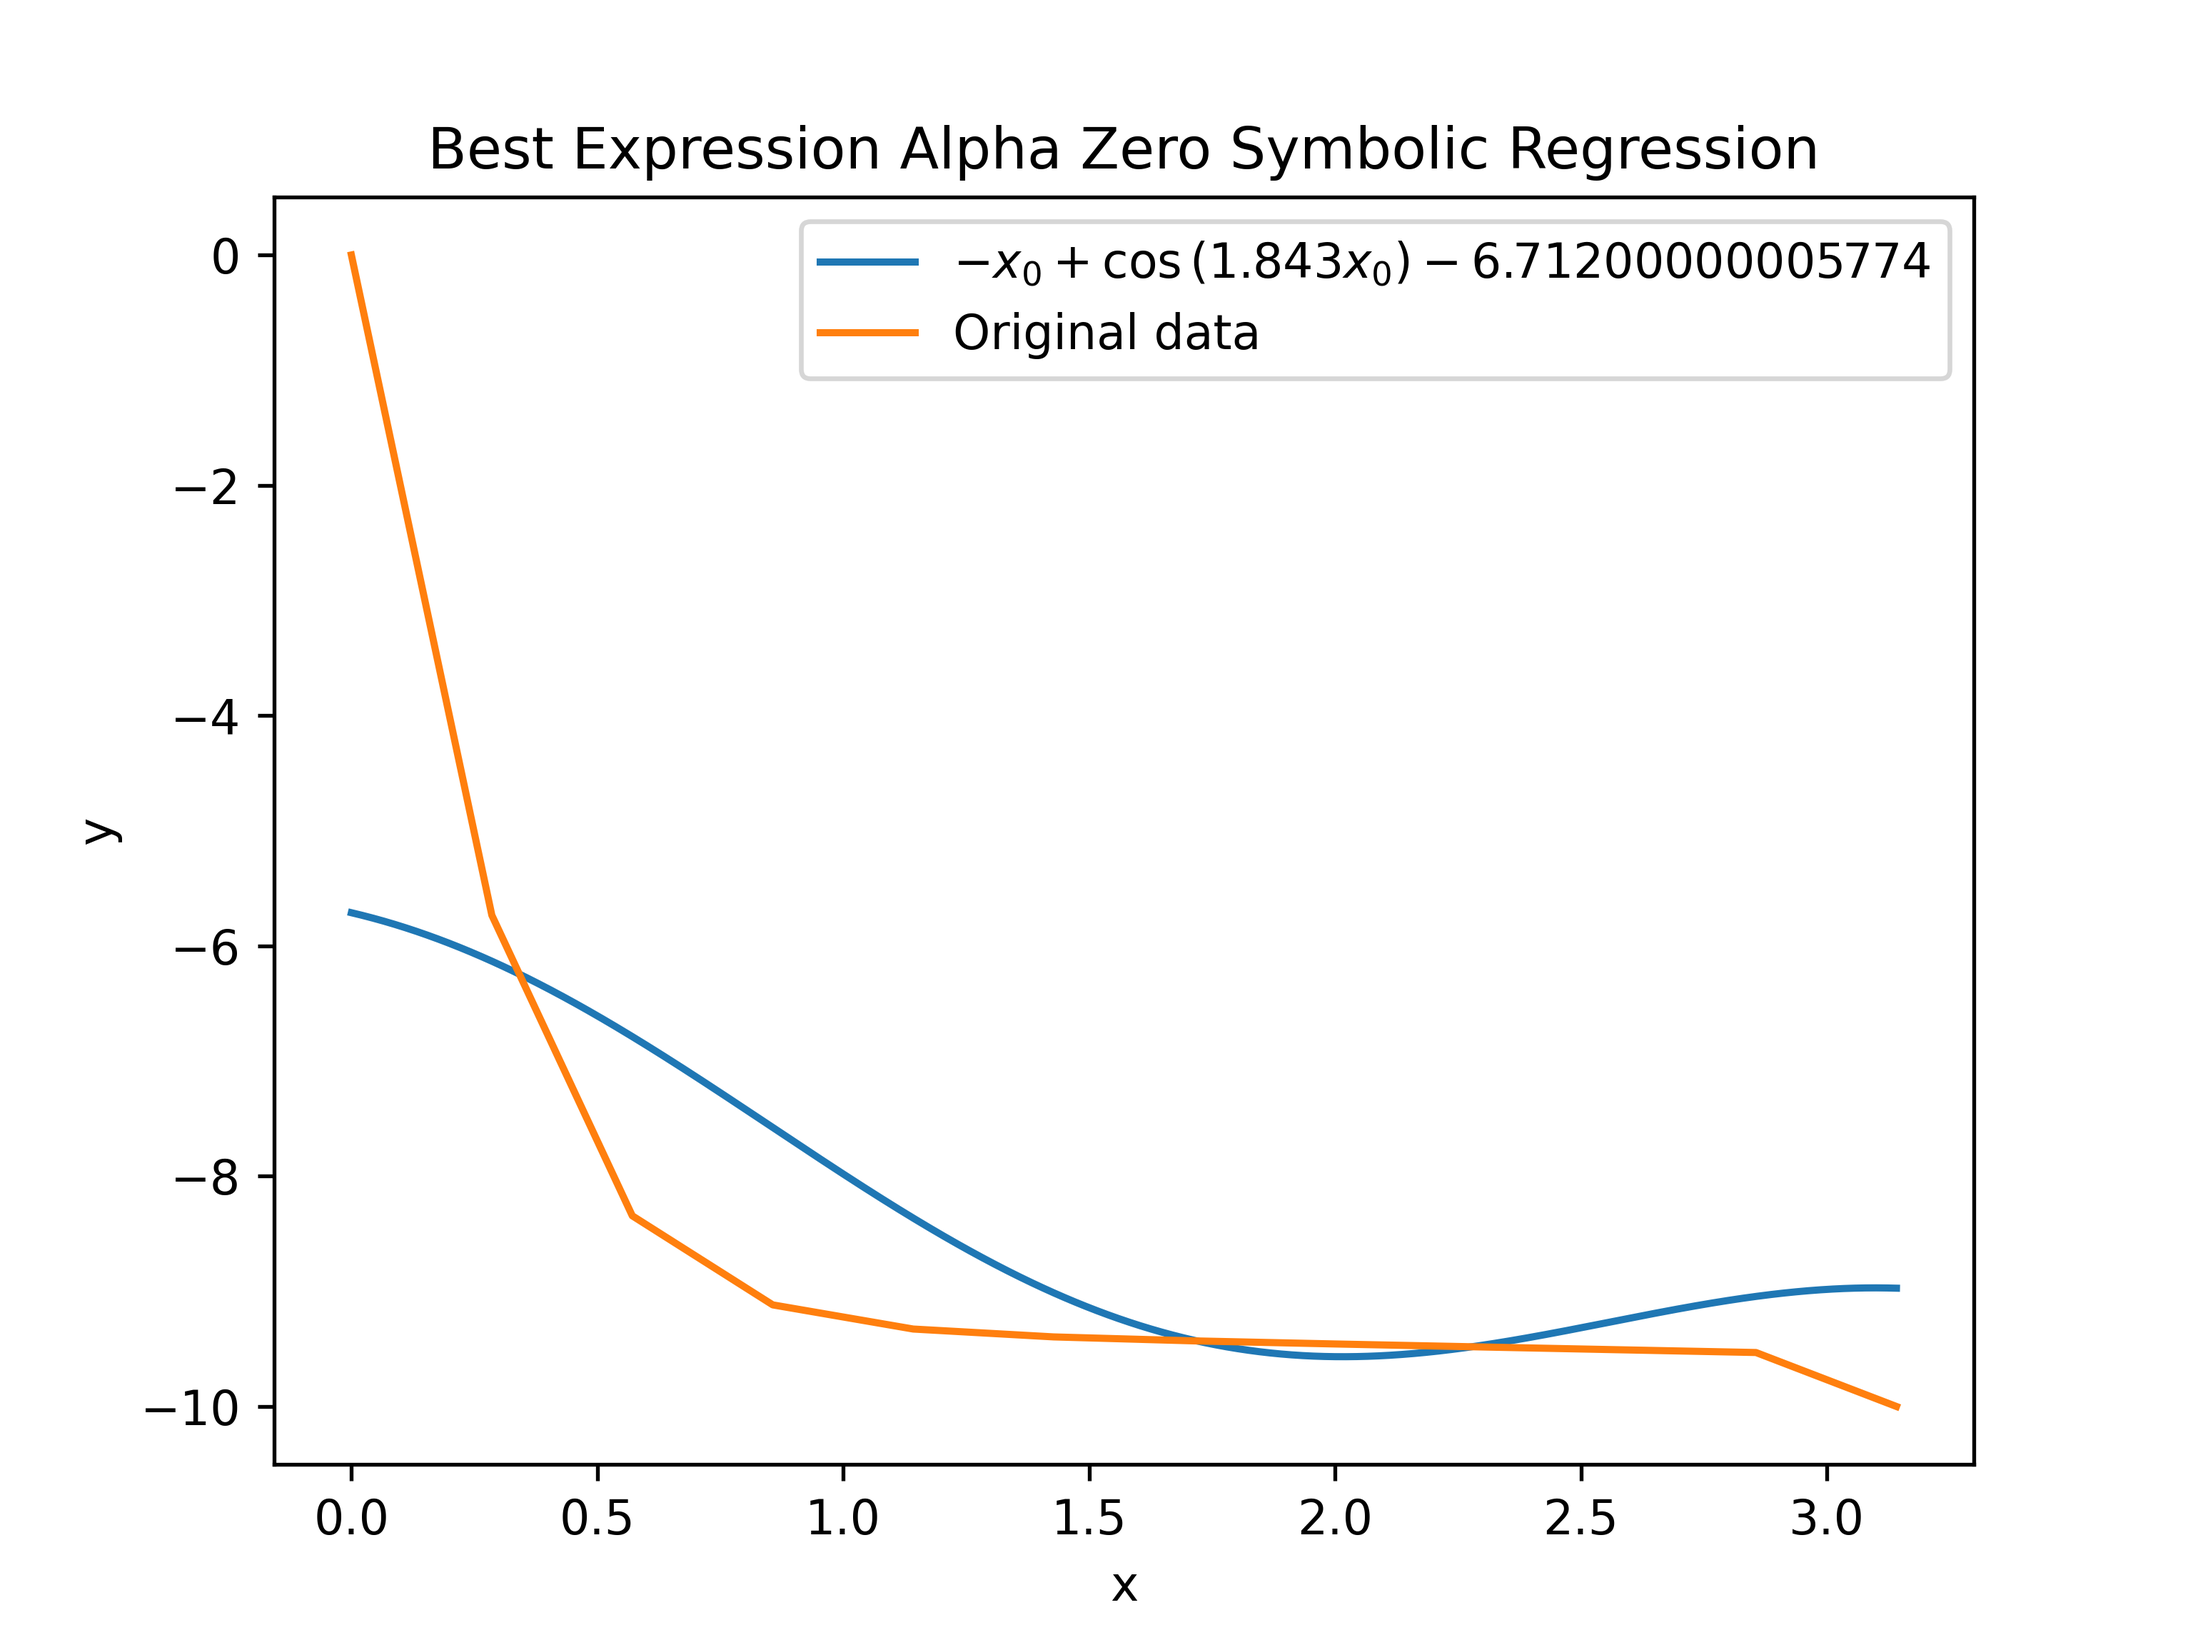
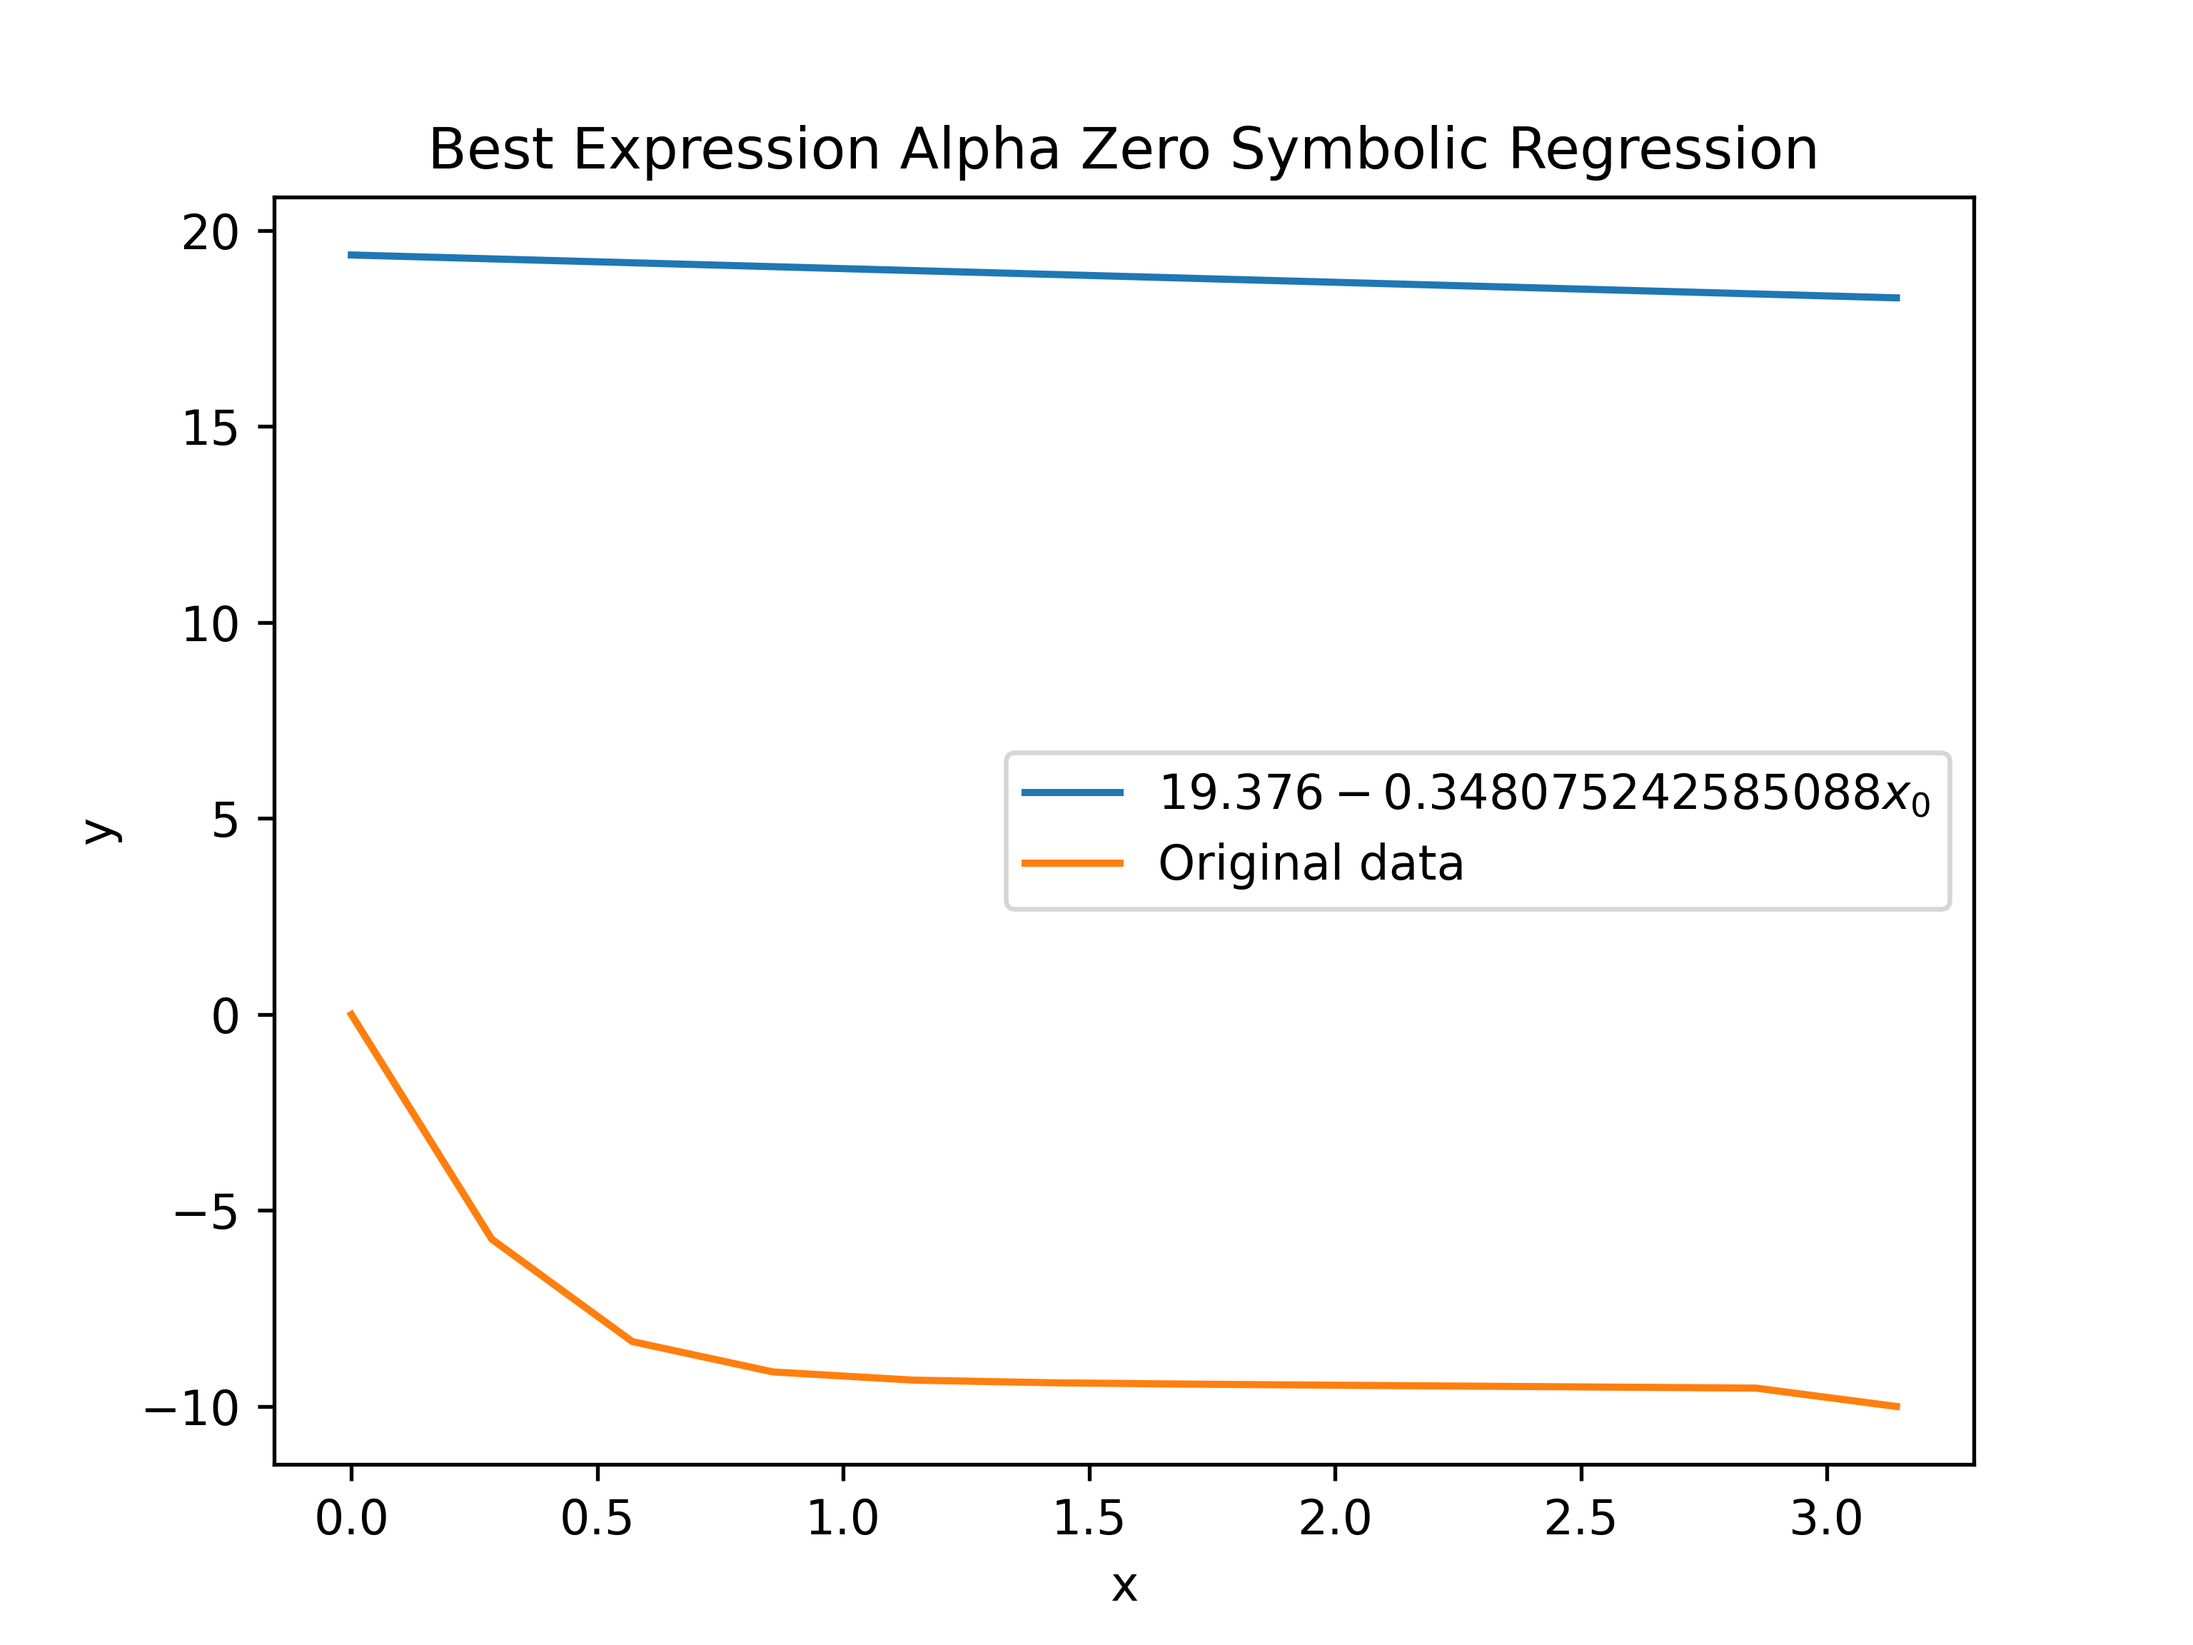
Adding SVM

diff --git a/symreg/keras/symregNNet.py b/symreg/keras/symregNNet.py
@@ -26,27 +26,32 @@ class symregNNet():
         self.action_size = game.getActionSize()
         self.args = args
 
-        # Neural Net
-        self.input_boards = Input(shape=(self.board, 1))  # s: batch_size x board x 1
+        if self.args['useNN']:
+            # Neural Net
+            self.input_boards = Input(shape=(self.board, 1))  # s: batch_size x board x 1
 
-        # Adjust the convolutional layers for 1D data
-        h_conv1 = Activation('relu')(BatchNormalization(axis=-1)(Conv1D(args.num_channels, 3, padding='same')(self.input_boards)))  # batch_size x board x num_channels
-#        h_conv2 = Activation('relu')(BatchNormalization(axis=-1)(Conv1D(args.num_channels, 3, padding='same')(h_conv1)))  # batch_size x board x num_channels
-#        h_conv3 = Activation('relu')(BatchNormalization(axis=-1)(Conv1D(args.num_channels, 3, padding='same')(h_conv2)))  # batch_size x board x num_channels
-#        h_conv4 = Activation('relu')(BatchNormalization(axis=-1)(Conv1D(args.num_channels, 3, padding='valid')(h_conv3)))  # batch_size x (board-2) x num_channels
+            # Adjust the convolutional layers for 1D data
+            h_conv1 = Activation('relu')(BatchNormalization(axis=-1)(Conv1D(args.num_channels, 3, padding='same')(self.input_boards)))  # batch_size x board x num_channels
+    #        h_conv2 = Activation('relu')(BatchNormalization(axis=-1)(Conv1D(args.num_channels, 3, padding='same')(h_conv1)))  # batch_size x board x num_channels
+    #        h_conv3 = Activation('relu')(BatchNormalization(axis=-1)(Conv1D(args.num_channels, 3, padding='same')(h_conv2)))  # batch_size x board x num_channels
+    #        h_conv4 = Activation('relu')(BatchNormalization(axis=-1)(Conv1D(args.num_channels, 3, padding='valid')(h_conv3)))  # batch_size x (board-2) x num_channels
 
-        h_conv1_flat = Flatten()(h_conv1)
-        s_fc1 = Dropout(args.dropout)(Activation('relu')(BatchNormalization(axis=1)(Dense(1024)(h_conv1_flat))))  # batch_size x 1024
-#        s_fc2 = Dropout(args.dropout)(Activation('relu')(BatchNormalization(axis=1)(Dense(512)(s_fc1))))          # batch_size x 1024
-        self.pi = Dense(self.action_size, activation='softmax', name='pi')(s_fc1)   # batch_size x self.action_size
-        self.v = Dense(1, activation='softmax', name='v')(s_fc1)                    # batch_size x 1
+            h_conv1_flat = Flatten()(h_conv1)
+            s_fc1 = Dropout(args.dropout)(Activation('relu')(BatchNormalization(axis=1)(Dense(1024)(h_conv1_flat))))  # batch_size x 1024
+    #        s_fc2 = Dropout(args.dropout)(Activation('relu')(BatchNormalization(axis=1)(Dense(512)(s_fc1))))          # batch_size x 1024
+            self.pi = Dense(self.action_size, activation='softmax', name='pi')(s_fc1)   # batch_size x self.action_size
+            self.v = Dense(1, activation='softmax', name='v')(s_fc1)                    # batch_size x 1
 
-        self.model = Model(inputs=self.input_boards, outputs=[self.pi, self.v])
-        self.model.compile(loss=['categorical_crossentropy','mean_squared_error'], optimizer=Adam(args.lr))
-        
-#        self.clf_value = make_pipeline(StandardScaler(), SVR(gamma='auto'))
-        print(gen_tikz_from_model(self.model))
-        self.model.summary()
+            self.model = Model(inputs=self.input_boards, outputs=[self.pi, self.v])
+            self.model.compile(loss=['categorical_crossentropy','mean_squared_error'], optimizer=Adam(args.lr))
+            
+            print(gen_tikz_from_model(self.model))
+            self.model.summary()
+        else:
+            self.clf_value = make_pipeline(StandardScaler(), SVR(gamma='auto', epsilon=0.1, kernel = 'rbf'))
+            self.clf_policy = []
+            for i in range(self.action_size):
+                self.clf_policy.append(make_pipeline(StandardScaler(), SVR(gamma='auto', epsilon=0.1, kernel = 'rbf')))
 
 '''
 The given code defines a neural network (NNet) class called `symregNNet` designed for solving the problem of symbolic regression using TensorFlow and Keras. Symbolic regression is a task in which the goal is to find a mathematical expression that best fits a given set of data points.

diff --git a/symreg/keras/NNet.py b/symreg/keras/NNet.py
@@ -23,6 +23,7 @@ Based on (copy-pasted from) the NNet by SourKream and Surag Nair.
 """
 
 args = dotdict({
+    'useNN' : False,
     'lr': 0.01,
     'dropout': 0.3,
     'epochs': 100,
@@ -46,10 +47,16 @@ class NNetWrapper(NeuralNet):
         input_boards = np.asarray(input_boards)
         target_pis = np.asarray(target_pis)
         target_vs = np.asarray(target_vs)
-        self.nnet.model.fit(x = input_boards, y = [target_pis, target_vs], batch_size = args.batch_size, epochs = args.epochs)
-        print(input_boards.shape, target_vs.shape)
-#        self.nnet.clf_value.fit(input_boards, target_vs)
-        self.trained = True
+        if args['useNN']:
+            self.nnet.model.fit(x = input_boards, y = [target_pis, target_vs], batch_size = args.batch_size, epochs = args.epochs)
+        else:
+            self.nnet.clf_value.fit(input_boards, target_vs) #learning value function
+            assert(len(self.nnet.clf_policy) == self.action_size)
+            self.nnet.clf_value.fit(input_boards, target_vs)
+            for i in range(self.action_size):
+                self.nnet.clf_policy[i].fit(input_boards, target_pis[:,i])
+        if not self.trained:
+            self.trained = True
 
     def predict(self, board):
         """
@@ -62,31 +69,42 @@ class NNetWrapper(NeuralNet):
         board = board[np.newaxis, :]
 
         # run
-        pi, v = self.nnet.model.predict(board, verbose=False) #pi is the NN predicted probability of selecting each possible action given the state s
-#        if self.trained:
-#            v = self.nnet.clf_value.predict(board)
-
+        if args['useNN']:
+            pi, v = self.nnet.model.predict(board, verbose=False) #pi is the NN predicted probability of selecting each possible action given the state s
+        elif self.trained:
+            v = self.nnet.clf_value.predict(board)
+            pi = [np.empty(self.action_size)]
+            for i in range(self.action_size):
+                pi[0][i] = self.nnet.clf_policy[i].predict(board)
+        else:
+            v = [np.random.random(1)]
+            pi = [np.random.random(self.action_size)]
+            
+#        print("pi[0], v[0] =", type(pi[0]), type(v[0]))
         #print('PREDICTION TIME TAKEN : {0:03f}'.format(time.time()-start))
         return pi[0], v[0]
 
     def save_checkpoint(self, folder='checkpoint', filename='checkpoint.pth.tar'):
         # change extension
-        filename = filename.split(".")[0] + ".h5"
+        if args['useNN']:
+            filename = filename.split(".")[0] + ".h5"
 
-        filepath = os.path.join(folder, filename)
-        if not os.path.exists(folder):
-            print("Checkpoint Directory does not exist! Making directory {}".format(folder))
-            os.mkdir(folder)
-        else:
-            print(f"Checkpoint Directory {filepath} exists!")
-        self.nnet.model.save_weights(filepath)
+            filepath = os.path.join(folder, filename)
+            if not os.path.exists(folder):
+                print("Checkpoint Directory does not exist! Making directory {}".format(folder))
+                os.mkdir(folder)
+            else:
+                print(f"Checkpoint Directory {filepath} exists!")
+            self.nnet.model.save_weights(filepath)
 
     def load_checkpoint(self, folder='checkpoint', filename='checkpoint.pth.tar'):
         # change extension
-        filename = filename.split(".")[0] + ".h5"
+        if args['useNN']:
+            filename = filename.split(".")[0] + ".h5"
 
-        # https://github.com/pytorch/examples/blob/master/imagenet/main.py#L98
-        filepath = os.path.join(folder, filename)
-        if not os.path.exists(filepath):
-            raise ValueError("No model in path '{}'".format(filepath))
-        self.nnet.model.load_weights(filepath)
+            # https://github.com/pytorch/examples/blob/master/imagenet/main.py#L98
+            filepath = os.path.join(folder, filename)
+            if not os.path.exists(filepath):
+                raise ValueError("No model in path '{}'".format(filepath))
+            self.nnet.model.load_weights(filepath)
+

diff --git a/multi_dimensional_symreg_test.py b/multi_dimensional_symreg_test.py
@@ -19,7 +19,7 @@ args = dotdict({
     'numEps': 10,              # Number of complete self-play games to simulate during a new iteration.
     'tempThreshold': 15,
     'maxlenOfQueue': 200000,    # Number of game examples to train the neural networks.
-    'numMCTSSims': 25,          # Number of games moves for MCTS to simulate.
+    'numMCTSSims': 30,          # Number of games moves for MCTS to simulate.
     'arenaCompare': 1,         # Number of games to play during arena play to determine if new net will be accepted.
     'cpuct': 1, #Controls the exploration/exploitation trade-off. TODO: Maybe set a schedule for this, i.e., so that the first N episodes have a higher value to encourage exploration and then lower this value to encourage exploitation?
 

diff --git a/symreg/SymRegLogic.py b/symreg/SymRegLogic.py
@@ -134,7 +134,7 @@ def model_selection(x, {', '.join(consts)}):
                 
                 #try to optimize parameters y0, y1, ..., yn
                 try:
-                    parameters, covariance = curve_fit(model_selection, X.T, Y, p0 = np.ones(num_consts))
+                    parameters, covariance = curve_fit(model_selection, X.T, Y, p0 = np.random.random(num_consts))
                 #if it didn't work, set the parameters y0, y1, ..., yn to random values
                 except RuntimeError:
                     parameters = np.random.random(num_consts)

diff --git a/Coach_symreg.py b/Coach_symreg.py
@@ -105,7 +105,7 @@ class Coach():
             # training new network, keeping a copy of the old one
             self.nnet.save_checkpoint(folder=self.args.checkpoint, filename='temp.pth.tar')
 
-            self.nnet.train(trainExamples)
+            self.nnet.train(trainExamples) #Machine learning model is getting trained on the saved training examples
             self.mcts.nnet = self.nnet
 #            nmcts = MCTS(self.game, self.nnet, self.args)
 

diff --git a/main_symreg.py b/main_symreg.py
@@ -9,6 +9,9 @@ from symreg.SymRegGame import SymRegGame as Game
 from symreg.SymRegLogic import Board
 from symreg.keras.NNet import NNetWrapper as nn
 from utils import *
+import warnings
+
+warnings.filterwarnings("ignore")
 
 log = logging.getLogger(__name__)
 
